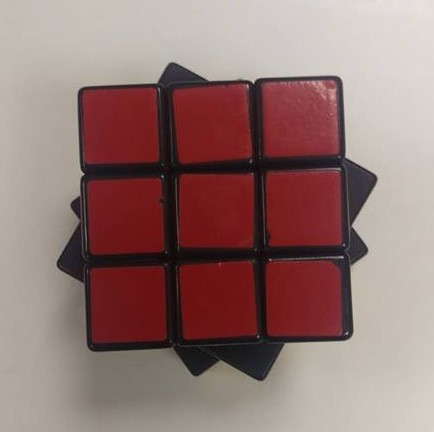
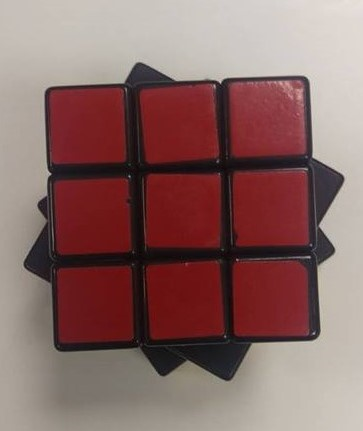
section 6 finished - v0.9.1

diff --git a/documentation_hu/3d_scanner.tex b/documentation_hu/3d_scanner.tex
@@ -72,7 +72,7 @@ Gépészmérnöki kar}\\[1cm]
 \lhead{3D szkenner}
 \cfoot{\thepage. oldal}
 %=================================================
-\section{Bevezető}
+\section{Bevezető} %vargar
 Az iparban egyre elterjedtebb a 3D szkennerek alkalmazása. Jól használhatóak gyors prototípuskészítésre és `'reverse engineering'' eljárásokhoz. Ezzel jelentős modellezési és mérési idő takarítható meg.\\[10pt]
 Új eszközök tervezésénél és komplex alkatrészek méreteinek gyors meghatározására egyaránt használható. Apróbb mechanikai alkatrészek, turbinalapátok és helységek szkennelése is lehetséges adott felbontással.\\[10pt]
 A gyógyászatban alkalmazzák például test vagy testrész modellezésére, mivel egyes protézisek elkészítése nagy méretpontosságot igényel, és így könnyebben formálhatóak az egyéni igények szerint.\\[10pt]
@@ -87,7 +87,7 @@ Egyetemeken régészek is használhatják leletek tanulmányozására anélkül,
 \end{figure}
 %=================================================
 \newpage
-\section{Feladat leírása}
+\section{Feladat leírása} %vargar
 \subsection{Követelmények}
 A projekt célja egy használható 3D lézerszkenner eljárás kidolgozása és megvalósítása, ami az alábbi követelményeknek megfelel:
 \begin{enumerate}
@@ -102,7 +102,7 @@ A szkennelési módszert egy webkamera, egy vonallézer és egy forgóasztal fel
 %=================================================
 	%"3d laserscanner" kulcsszót beírva a Google-be rengeteg találatot kap az ember. Mi elsőnek a képi és videó találatokat %nézegettük meg, és rögtön megállapítottuk, hogy nagyon menő lesz az általunk készített kis kütyü / szerkezet.\\
 	
-	Alapvetően kétféle lézer szkenner található meg a piacon. Az egyik, ami az adott tárgyat, objektumot végigpásztázza egy lézerfény segítségével és a lézerfény kibocsájtásától, a lézerfény visszaérkezéséig eltelt időből számítja a távolságot. Ez egy elég drága technika, mivel nagyon pontosan kell mérni az időt, mivel a fény terjedési sebessége nagyon nagy, ezért körülbelül $[ns]$ nagyságrendben kell mérni az idő múlását.\\[10pt]
+	Alapvetően kétféle lézer szkenner található meg a piacon. Az egyik, ami az adott tárgyat, objektumot végigpásztázza egy lézerfény segítségével és a lézerfény kibocsájtásától, a lézerfény visszaérkezéséig eltelt időből számítja a távolságot. Ez egy elég drága technika, mert nagyon pontosan kell mérni az időt. Mivel a fény terjedési sebessége nagyon nagy, ezért körülbelül $[ns]$ nagyságrendben kell mérni az idő múlását.\\[10pt]
 	\begin{figure}[h!]
 		\begin{center}
 			\includegraphics[height=5cm]{images/Faro_Building_Scan}
@@ -527,11 +527,50 @@ pcshow(xyz)
 \end{figure}
 
 %=================================================
-\section{Eredmények, a módszer korlátai}
-
+\section{Eredmények, a módszer korlátai} %tard
+A szkennelési pontosságunk - a projekt jelenlegi állása szerint még csak sötétben - 1-2 [mm] közzé esik, ami az általunk használt 640x480-as webkamera felbontássál jónak számít. A mérési pontatlanság mértékét a kalibrációnál fellépő hibák okozzák, amit további alkatrészek készítésével csökkenteni lehetne.\\[10pt]
+Felléphető kalibrációs hibák:
+\begin{itemize}
+	\item Az asztal forgástengelye nem esik teljesen egybe a vonallézerrel
+	\item A vonallézer és az asztal lapja nem merőlegesek egymásra
+	\item A sakktábla
+	\subitem - középső függőleges egyenese nem esett egybe pontosan a forgástengellyel
+	\subitem - nem volt párhuzamos a vonalézér síkjával
+	\subitem - négyzetrácsmérete nem állanó:
+	\subsubitem + a nyomtatási hibák miatt
+	\subsubitem + a kinyomtatott lap elhajlása miatt
+\end{itemize}
+A hibák nagy részét csökkenteni lehetne az asztallap újratervezésével, és rá illeszkedő merőleges sakktáblatartó keret készítésével és a vonallézert tartó állványra plusz vízmértékek felszerelésével.\\[10pt]
+Ha az objektumnak matt felülete van és a szkennelést sötétben végezzük el, akkor 1[mm] pontosság alatti pontfelhőt is képes előállítani a programunk pontos kalibráció esetén.\\[10pt]
+\begin{figure}[h!]
+	\begin{center}
+		\includegraphics[height=10cm]{images/oblito1}
+		\includegraphics[height=10cm]{images/oblito2}
+	\end{center}
+	\caption{Öblitő palack és 3D-szkennelt pontfelhő}
+\end{figure}
+Amennyiben a tárgyunknak fényes felülete van, akkor a lézernyaláb megvastagodik, meghízik vagy egyátalán nem látszik a készített képen. A kamera lecserélésével, illetve az ilyen esetekben alkalmazott paraméterhangolással lehetne javítani.\\[10pt]
+\begin{figure}[h!]
+	\begin{center}
+		\includegraphics[height=5cm]{images/rubik1}
+		\includegraphics[height=5cm]{images/rubik2}
+		\\
+		\includegraphics[height=5cm]{images/rubik3}
+		\includegraphics[height=5cm]{images/rubik4}
+	\end{center}
+	\caption{Rubikkocka és 3D-szkennelt pontfelhő domborodása}
+\end{figure}
+\begin{figure}[h!]
+	\begin{center}
+		\includegraphics[height=5.5cm]{images/mouse2}
+		\includegraphics[height=5.5cm]{images/mouse1}
+	\end{center}
+	\caption{Az egér és a nem látszó lézerfény miatt keletkezett folt a pontfelhőn}
+\end{figure}
+A kritikus pontja az eredményeinknek a szkennelési idő, ami jelenleg 20-25 percet vesz igénybe. Az idő redukálására már kidolgozásra került egy módszer, csak implementálása a sok változtás miatt még nem került megvalósításra.\\[10pt]
 
 %=================================================
-\section{Továbbfejlesztési irányok}
+\section{Továbbfejlesztési irányok} % bognarm
 \subsection{Működésbeli}
 Ami az eredeti tervhez képest az idő és eszköz hiány miatt nem valósult meg, egy második kamera beszerzése. Ezt a kamerát a lézer másik oldalára rögzítve, a két kamerát egyszerre működtetve a kitakarásokat lehetne csökkenteni, így bonyolultabb geometriájú tárgyak is szkennelhetőek lennének.
 \\[10pt]
